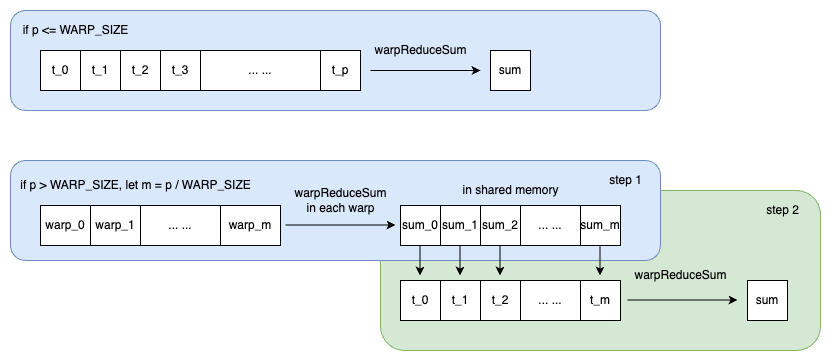
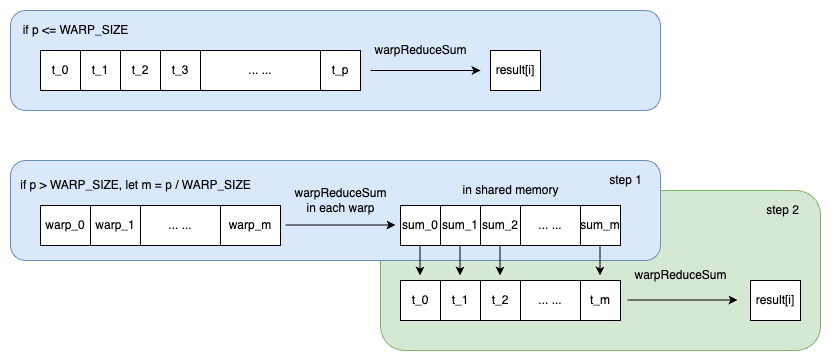
add reduction sum part

Changed region(s): [[0.8724, 0.7618, 0.9627, 0.8837], [0.6017, 0.1219, 0.6619, 0.2742]]

diff --git a/method_and_result.md b/method_and_result.md
@@ -6,20 +6,16 @@
 
 Instead of having one thread to produce 1 component of the result vector by computing the dot product between each row of the matrix and the vector, we had `p` threads to be responsible for one row, and each thread is responsible for `size / p` elements both in the matrix and in the vector.
 
-![1](/pics/1.png)
+This is the big picture of our algorithm: 
 
-As shown in the above image, in each row, `p` threads (here `p`=8) compute one section of the dot product, and then the partial results are added together to obtain one value of `result`.  
+![1](./pics/1.png)
 
-### Reduce sum
+As shown in the above image, in each row, `p` threads (here `p`=8) compute one section of the dot product, and then the partial results are added together to obtain one value of `result[i]`. 
 
-When adding partial results computed by each thread, instead of summing up the values one by one, we applied similar ideas to cutlass's (warp and block reduction)[https://github.com/NVIDIA/cutlass/blob/main/tools/util/include/cutlass/util/device_utils.h]. More specifically: 
+Hence, the problem can be divided into 2 parts: 
 
-- If `p` is smaller than `WARP_SIZE`, we can directly get the sum of these `p` values by calling a `warpReduceSum()`;
-- If `p` is greater than `WARP_SIZE`, assuming there are `m` warps (`m` <= `WARP SIZE`) per row, then there are 2 steps: 
-  - step 1: Each warp computes the sum of values in itself by calling `warpReduceSum()`.
-  - step 2: Each warp `i` loads its sum, `sum_i`, to the shared memory. The first `m` threads in the first warp reads the values from the shared memory, and perform a reduction sum through `warpReduceSum()`. 
-
-![2](/pics/2.png)
+- How to optimize the computation time of generating the partial result in a single thread?
+- How to optimize the addition of each partial results in the same row? 
 
 ### Vectorization
 
@@ -28,6 +24,43 @@ When adding partial results computed by each thread, instead of summing up the v
 #### Quantized int8
 
 #### Quantized int4
+
+### Reduce sum
+
+When adding partial results computed by each thread, instead of summing up the values one by one, we applied similar ideas to CUTLASS's [warp and block reduction](https://github.com/NVIDIA/cutlass/blob/main/tools/util/include/cutlass/util/device_utils.h). Specifically, we have a self-implemented `warpReduceSum()` like this: 
+
+```c++
+__device__ __forceinline__ float warpReduceSum(float sum,
+                                               unsigned int p) {
+  if (p >= 32)
+    sum += __shfl_down_sync(0xffffffff, sum, 16);  // 0-16, 1-17, 2-18, etc.
+  if (p >= 16)
+    sum += __shfl_down_sync(0xffffffff, sum, 8);  // 0-8, 1-9, 2-10, etc.
+  if (p >= 8)
+    sum += __shfl_down_sync(0xffffffff, sum, 4);  // 0-4, 1-5, 2-6, etc.
+  if (p >= 4)
+    sum += __shfl_down_sync(0xffffffff, sum, 2);  // 0-2, 1-3, 4-6, 5-7, etc.
+  if (p >= 2)
+    sum += __shfl_down_sync(0xffffffff, sum, 1);  // 0-1, 2-3, 4-5, etc.
+  return sum;
+}
+```
+
+In this function, each thread starts with a sum, and the goal is to compute the total sum across all threads in the same warp and distribute the result back to all threads in that warp. The function achieves this with several rounds of pairwise summing and shifting.
+
+The `__shfl_down_sync(mask, var, delta)` function is used to perform the sum reduction. It takes a mask (`0xffffffff`, representing all threads in a warp) which indicates the threads participating in the operation, var which is the value to be shifted, and delta which is the number of positions to shift. This function returns the value of var held by the thread delta positions below the calling thread in the warp. If the target thread is out of bounds, the calling thread's own value is returned.
+
+The workflow can be illustrated as below: 
+
+![2](./pics/2.png)
+
+When `p` is less than `WARP_SIZE` (32), only 1 warp exists, the return value of `warpReduceSum()` would be the total sum across all threads in the warp, which will be directly written to the `result[i]`.
+
+When `p` is greater than `WARP_SIZE`, assuming there are `m` warps (`m` <= `WARP SIZE`), then there are 2 steps: 
+  - step 1: Each warp computes the sum of values in itself by calling `warpReduceSum()`.
+  - step 2: Each warp `j` loads its sum, `sum_j`, to the shared memory. The first `m` threads in the `warp_0` reads the values from the shared memory, and perform a reduction sum through `warpReduceSum()`. 
+
+### GPU thread layout
 
 ### Other attempted methods
 
